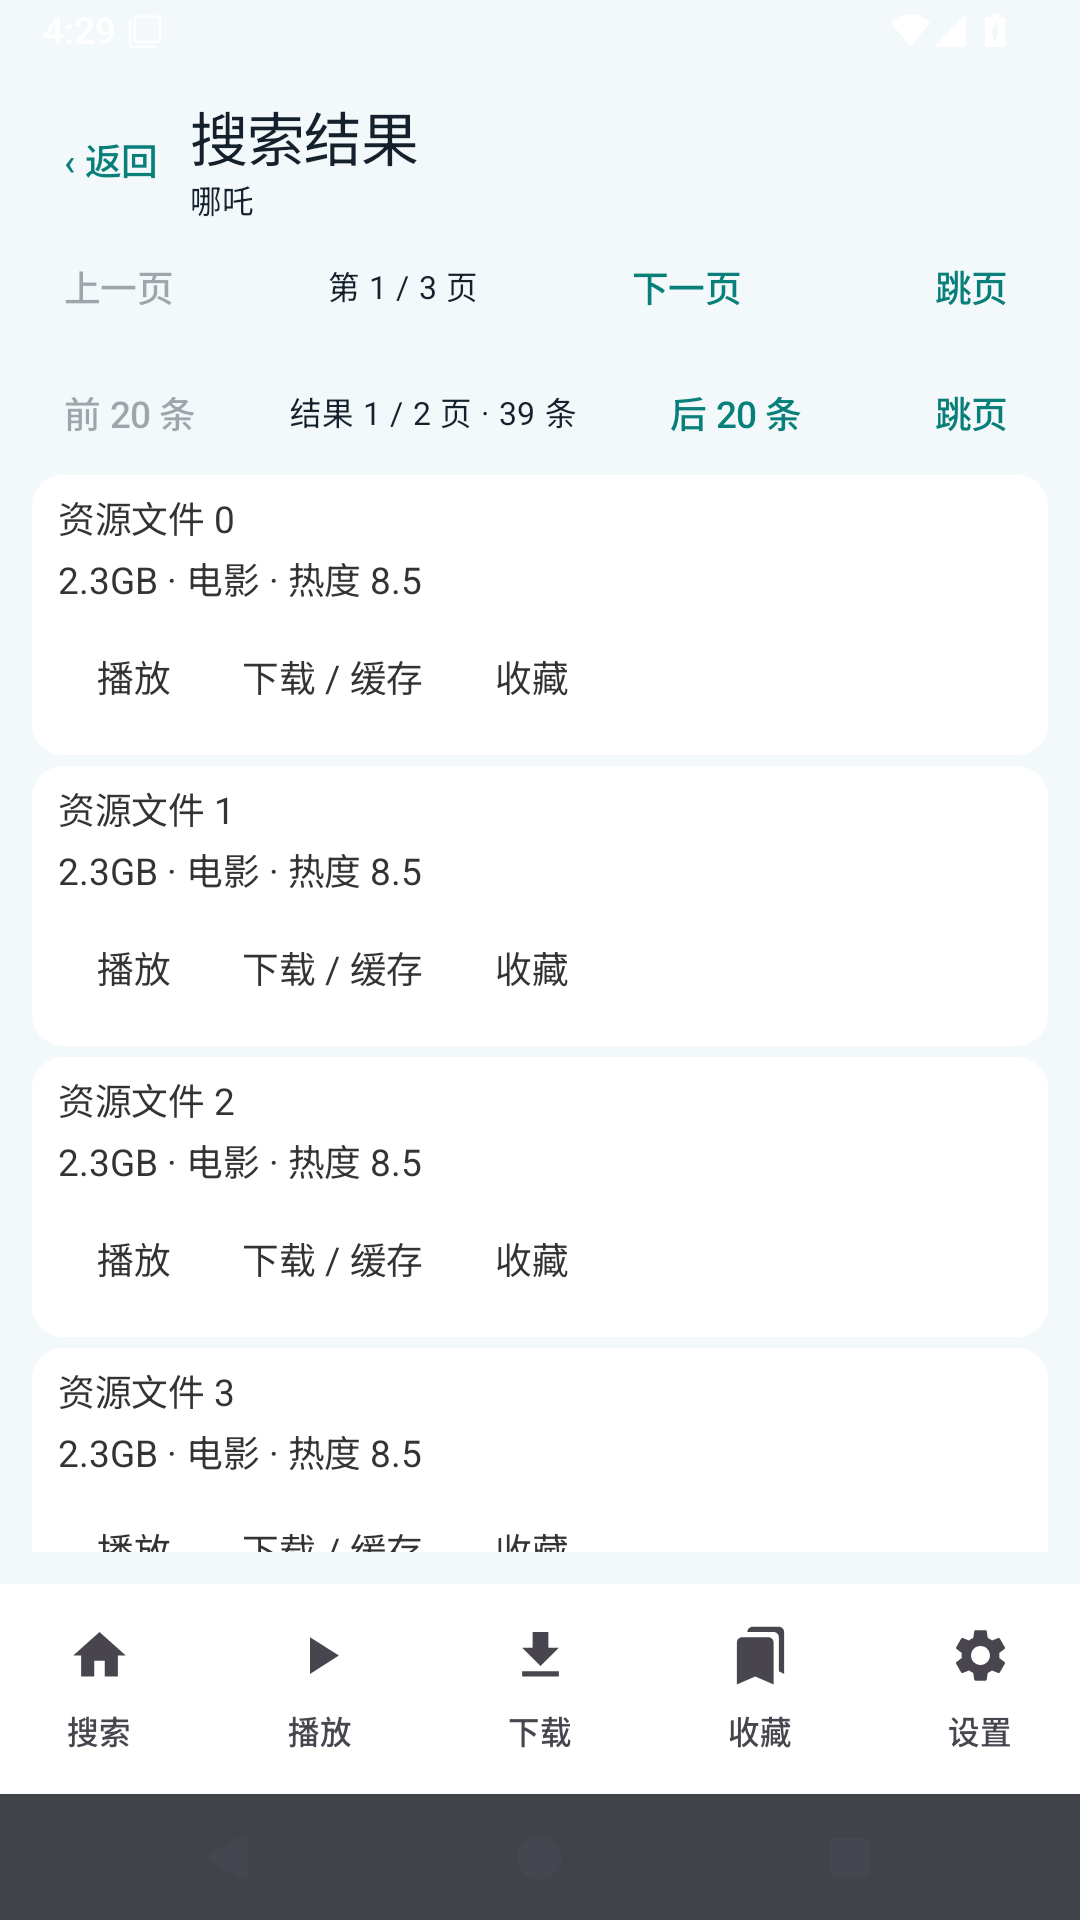
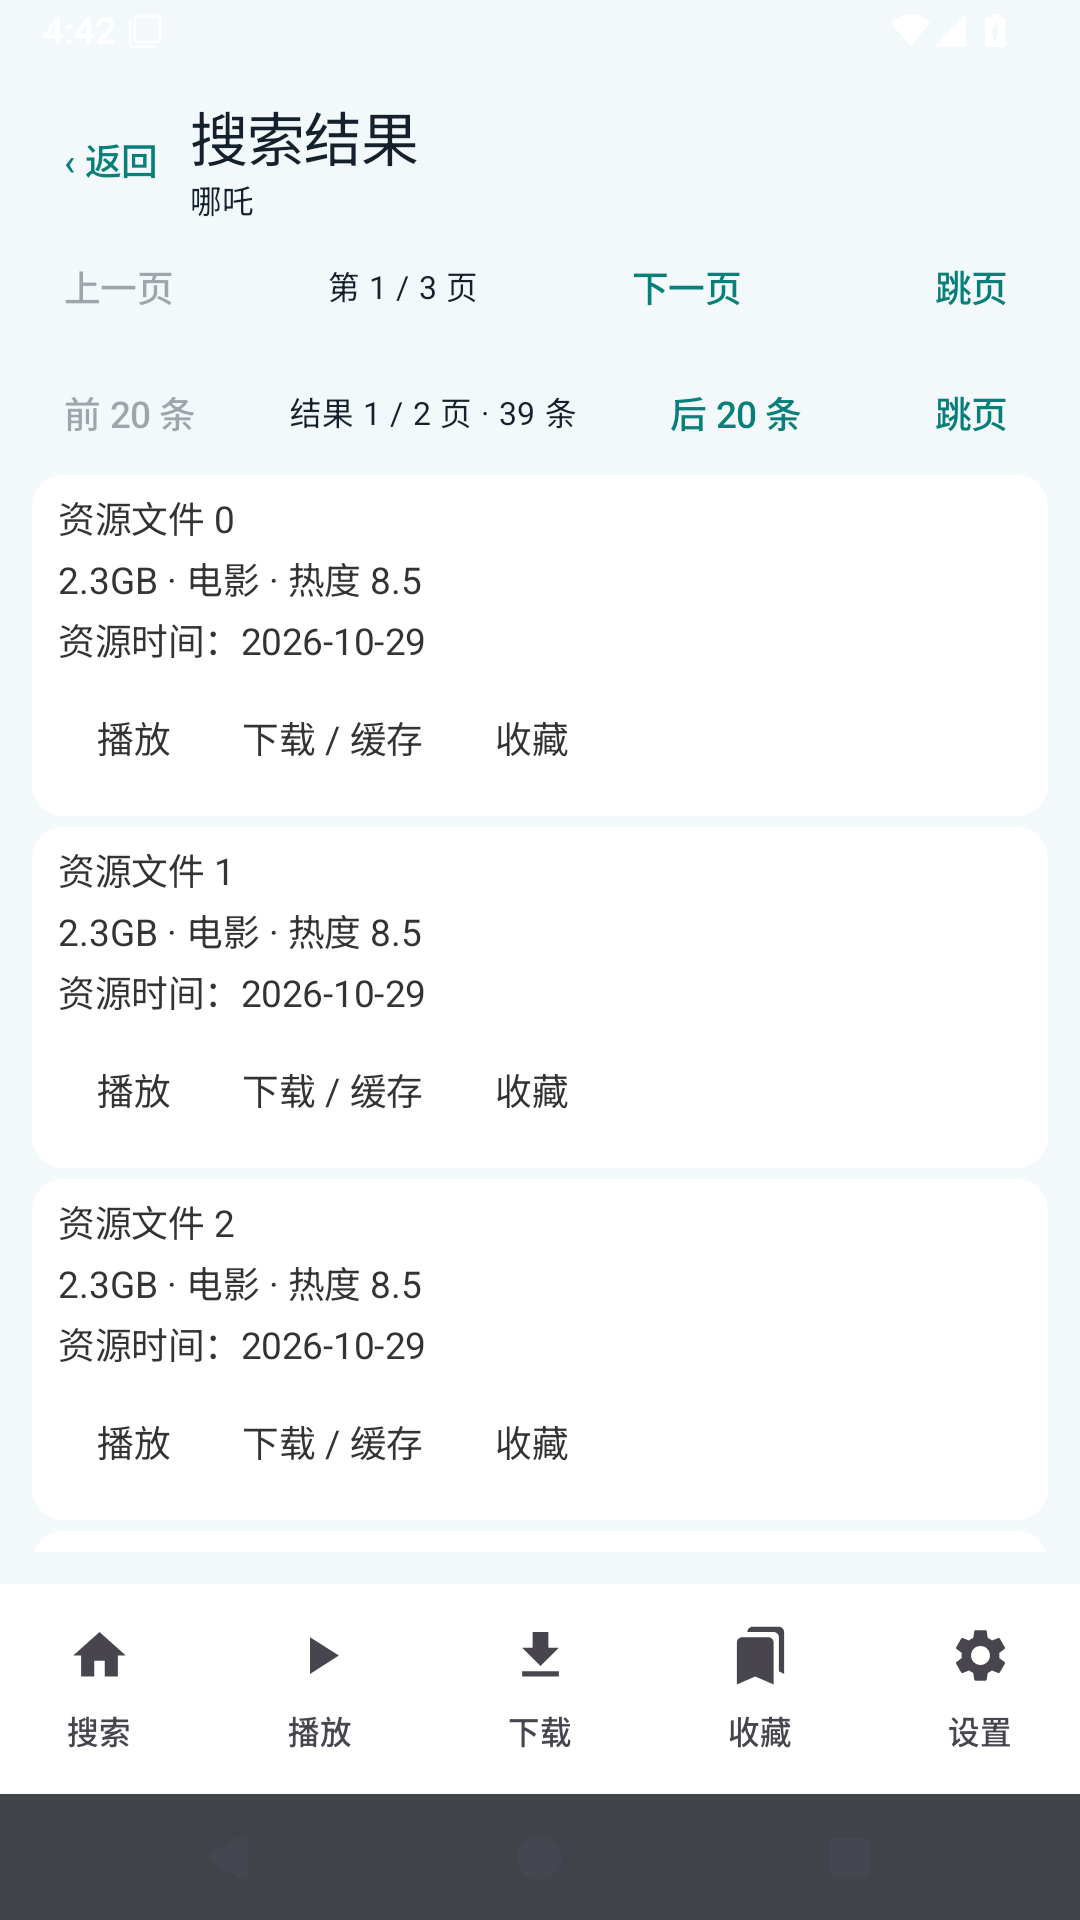
Document publication dates independent task limits and formatting fix

diff --git a/docs/report.md b/docs/report.md
@@ -299,3 +299,27 @@ Android 设备测试另校验字体真实加载、字号持久化、各类历史
 受控做种测试发现元数据补充并替换句柄后连接未恢复、有效字节为 0，该回归尚未通过。已改为替换句柄后先经 TCP 重连，无连接时再恢复 uTP，正在[重新测试](https://github.com/liao-zc/FreeMangnetPlayer/actions/runs/41003279966)。该分支尚未并入 main，新版本 APK 尚未发布。
 
 验收已升级：十条必须全部在文件未下载完时渲染视频，并持续推进播放至少 20 秒。之前“90% 通过”或仅有播放状态的判据不再作为本任务的完成条件。
+
+## 本次补充：发布时间、独立任务名额和输出脚本
+
+### 搜索结果的资源时间
+
+资源名称下显示来源提供的发布时间。读取资源行的 time 标签、明确的发布时间字段或详情页发布时间；保留“昨天”等来源原文，不把搜索时间或整页时间当作每条资源的发布时间。来源没有发布时间时显示“来源未提供”，不编造日期。
+
+[发布时间回归](https://github.com/liao-zc/FreeMangnetPlayer/actions/runs/41004109559) 的 10 项检查全部通过：受控页面 39 个资源，37 条日期为 2026-10-29，2 条详情页日期为 2025-03-01；名称、大小、20 条分页、页码跳转及空页返回同步通过。上面的三张搜索截图已替换为这次实际 App 截图。受控网站验证提取逻辑，不代表六个公网来源都提供日期。
+
+### 最大下载数量不包含缓存
+
+下载任务与缓存/播放任务分开计算、排队和恢复。默认同时下载上限为 5；缓存采用设置中的独立缓存任务上限。暂停、完成、取消和排队任务不计入活动名额。设置标签明确标注“不含缓存”和“单独计算”。
+
+[Android 测试](https://github.com/liao-zc/FreeMangnetPlayer/actions/runs/41004735689) 已通过，覆盖 5 个活动下载与 10 个活动缓存分别计数、排队缓存不挤占下载、暂停/完成/取消不占名额。第一次测试夹具未将 queued 设为 false，误把全部夹具当作排队任务；已修正夹具后重新通过，未放宽断言。
+
+### PowerShell 格式化错误
+
+用户提供的错误说明格式字符串引用了参数范围以外的索引。引用 {0} 至 {7} 需要八个格式参数；缺少完整原命令，不能进一步确定是参数遗漏还是表达式解析导致。这个输出错误本身不能证明 BT 连接或播放算法有问题。
+
+新增 scripts/summarize_public_results.ps1：显式遍历 JSON 数组，以对象输出文件名、元数据、节点、有效下载字节和验收结果，避免位置格式索引。Windows PowerShell 已实际读取 public-acceptance.json 并输出 11 条记录，没有 FormatError。记录仍如实显示未通过，不会把输出修复算作播放修复。
+
+### BT 仍在验证
+
+现代引擎元数据替换后丢失 Tracker 的原因已定位：TorrentInfo 不保留顶层 Tracker，重新添加任务时必须显式恢复 URL 和 tier。实验分支现已恢复到新句柄，并以新句柄实际 Tracker 集合验证恢复数量。[最新受控回归](https://github.com/liao-zc/FreeMangnetPlayer/actions/runs/41005592483) 正在执行，尚不能声明解决或发布验收版 APK。十条磁力仍要求全部实际渲染首帧、在文件未下载完成时起播并持续播放。

diff --git a/docs/usage-zh.md b/docs/usage-zh.md
@@ -91,3 +91,11 @@
 播放器画质菜单只列出文件实际具有并能识别的轨道。单轨视频只有原画；降低显示分辨率不能降低原文件下载量，本版未实现实时转码。
 
 ![实际画质轨道](screenshots/current/preferences-preferences-05-supported-quality-menu.png)
+
+## 资源时间与任务数量
+
+搜索结果的资源时间来自网站资源行或详情页；“来源未提供”表示网站没有给出日期。
+
+![资源时间与分页](screenshots/current/preferences-local-results-1.png)
+
+设置页“最大同时下载数量（不含缓存）”默认 5。缓存和播放任务使用独立的“最大缓存任务数量”，不会占下载名额。
